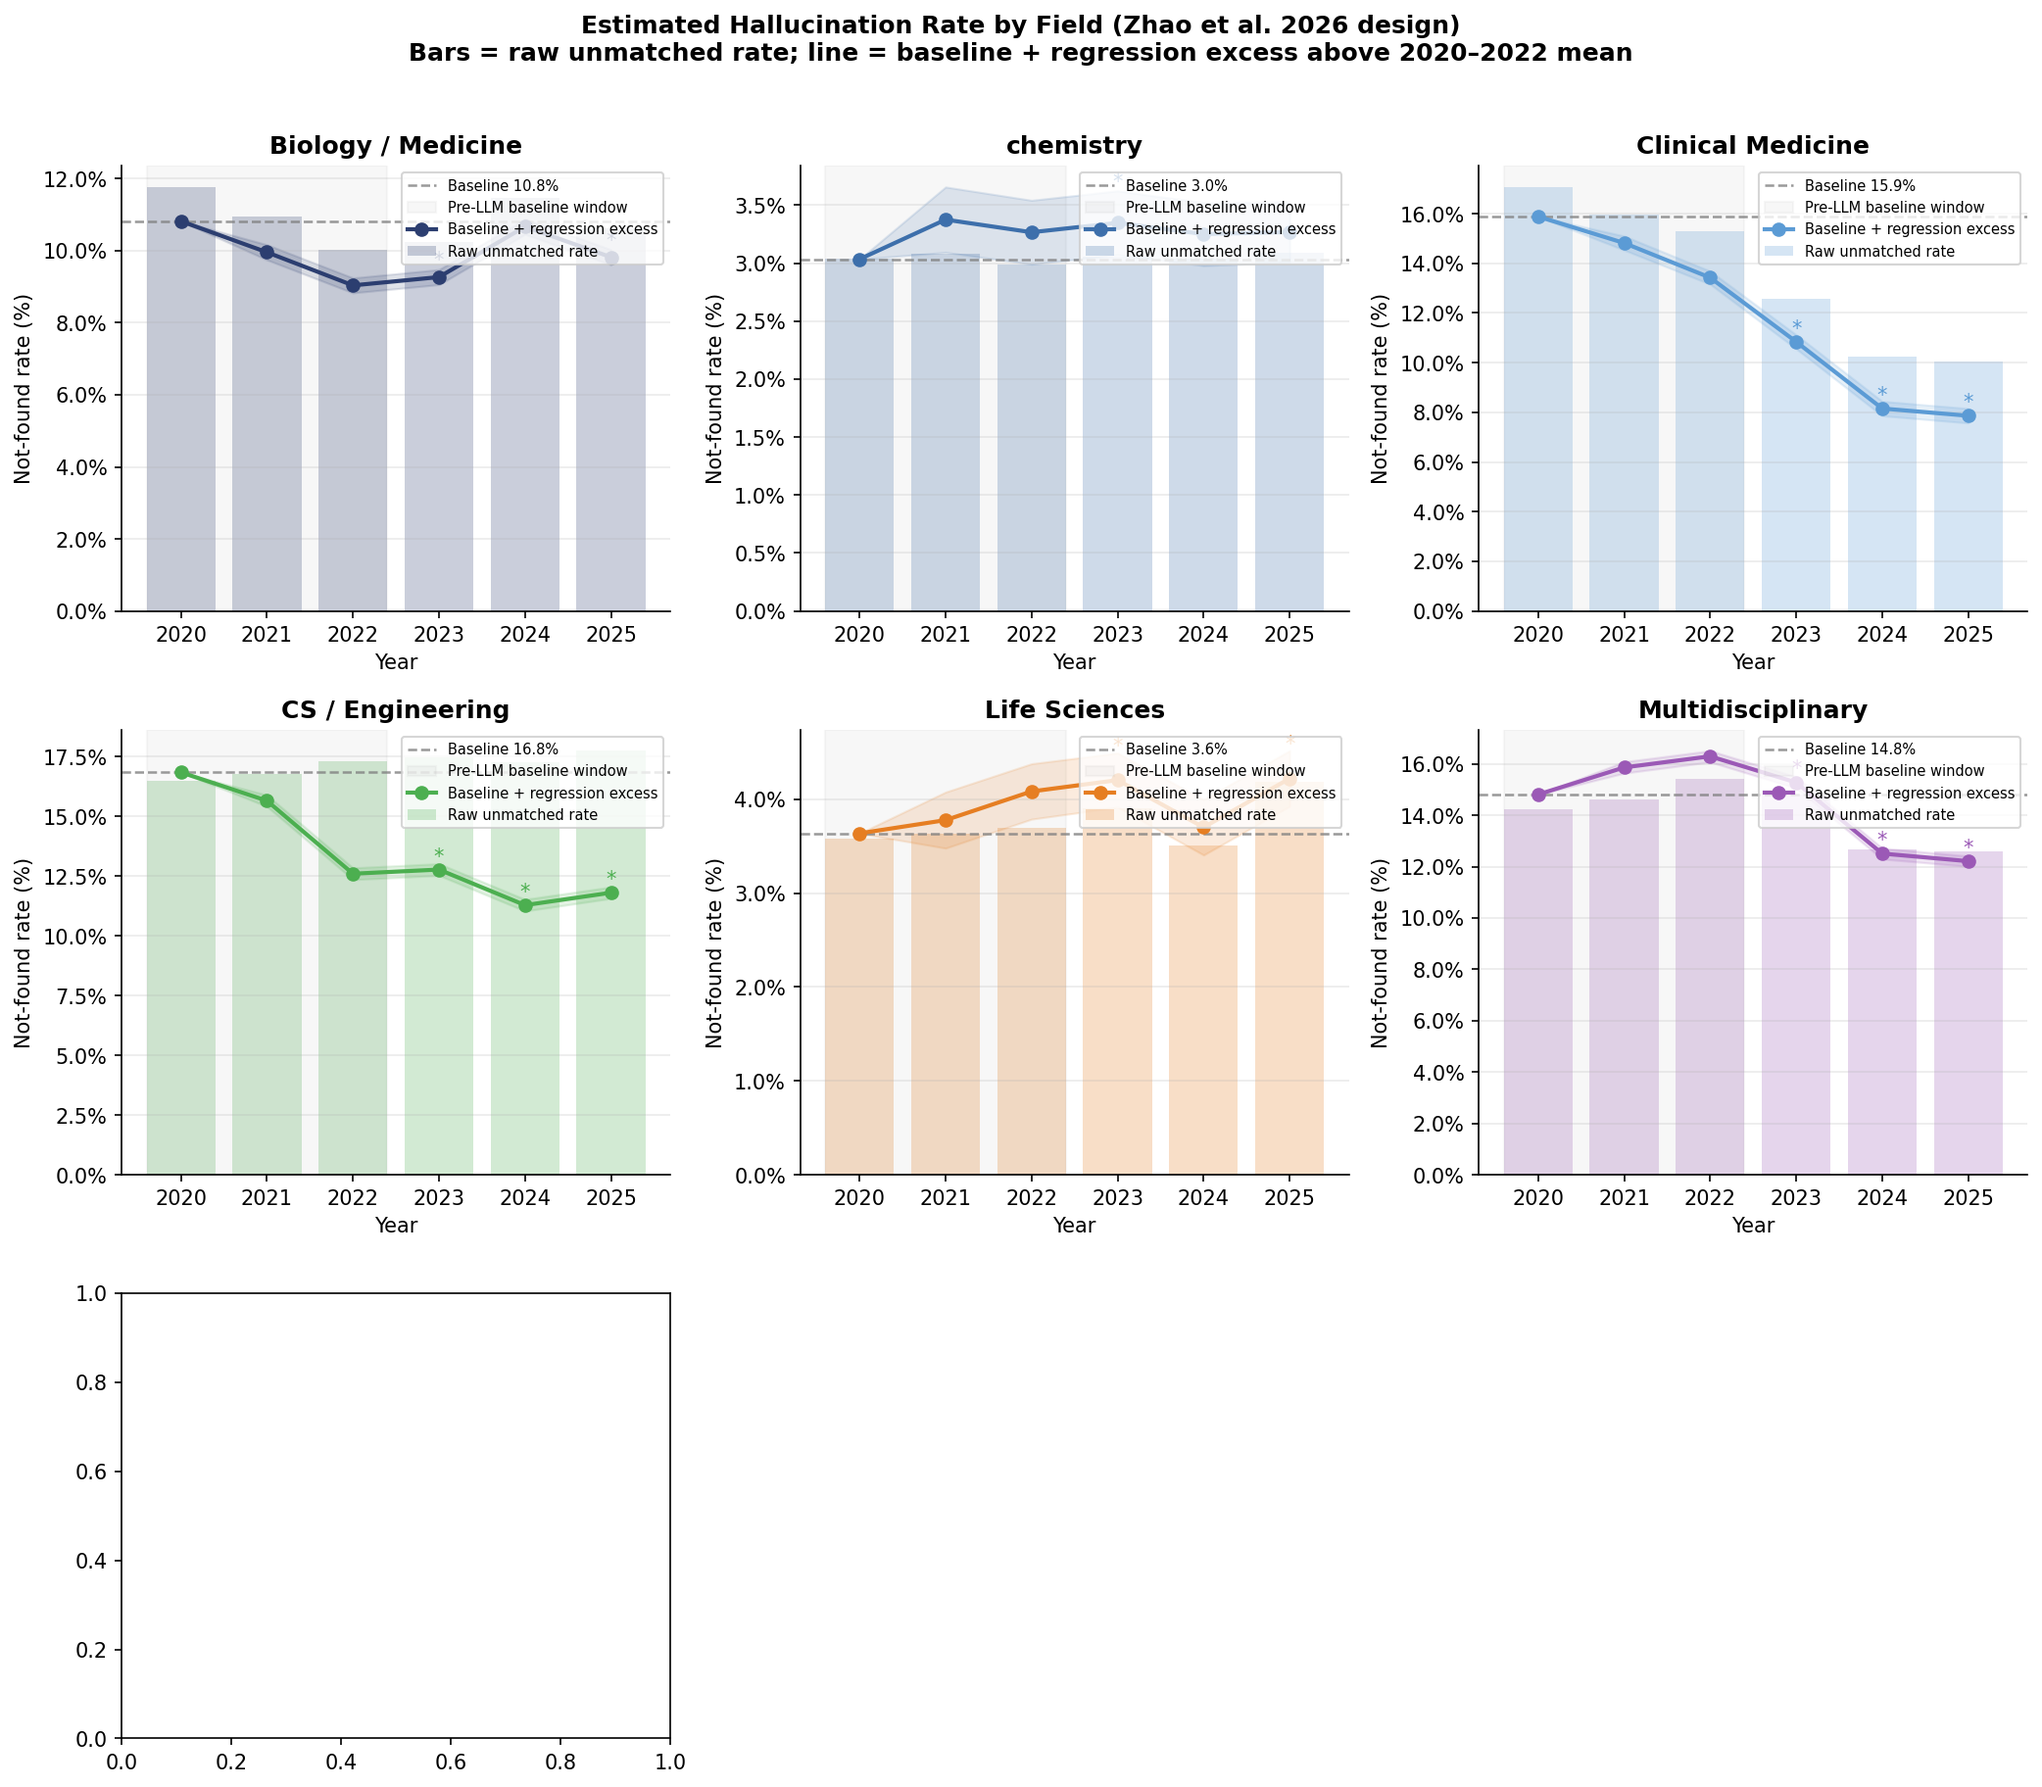
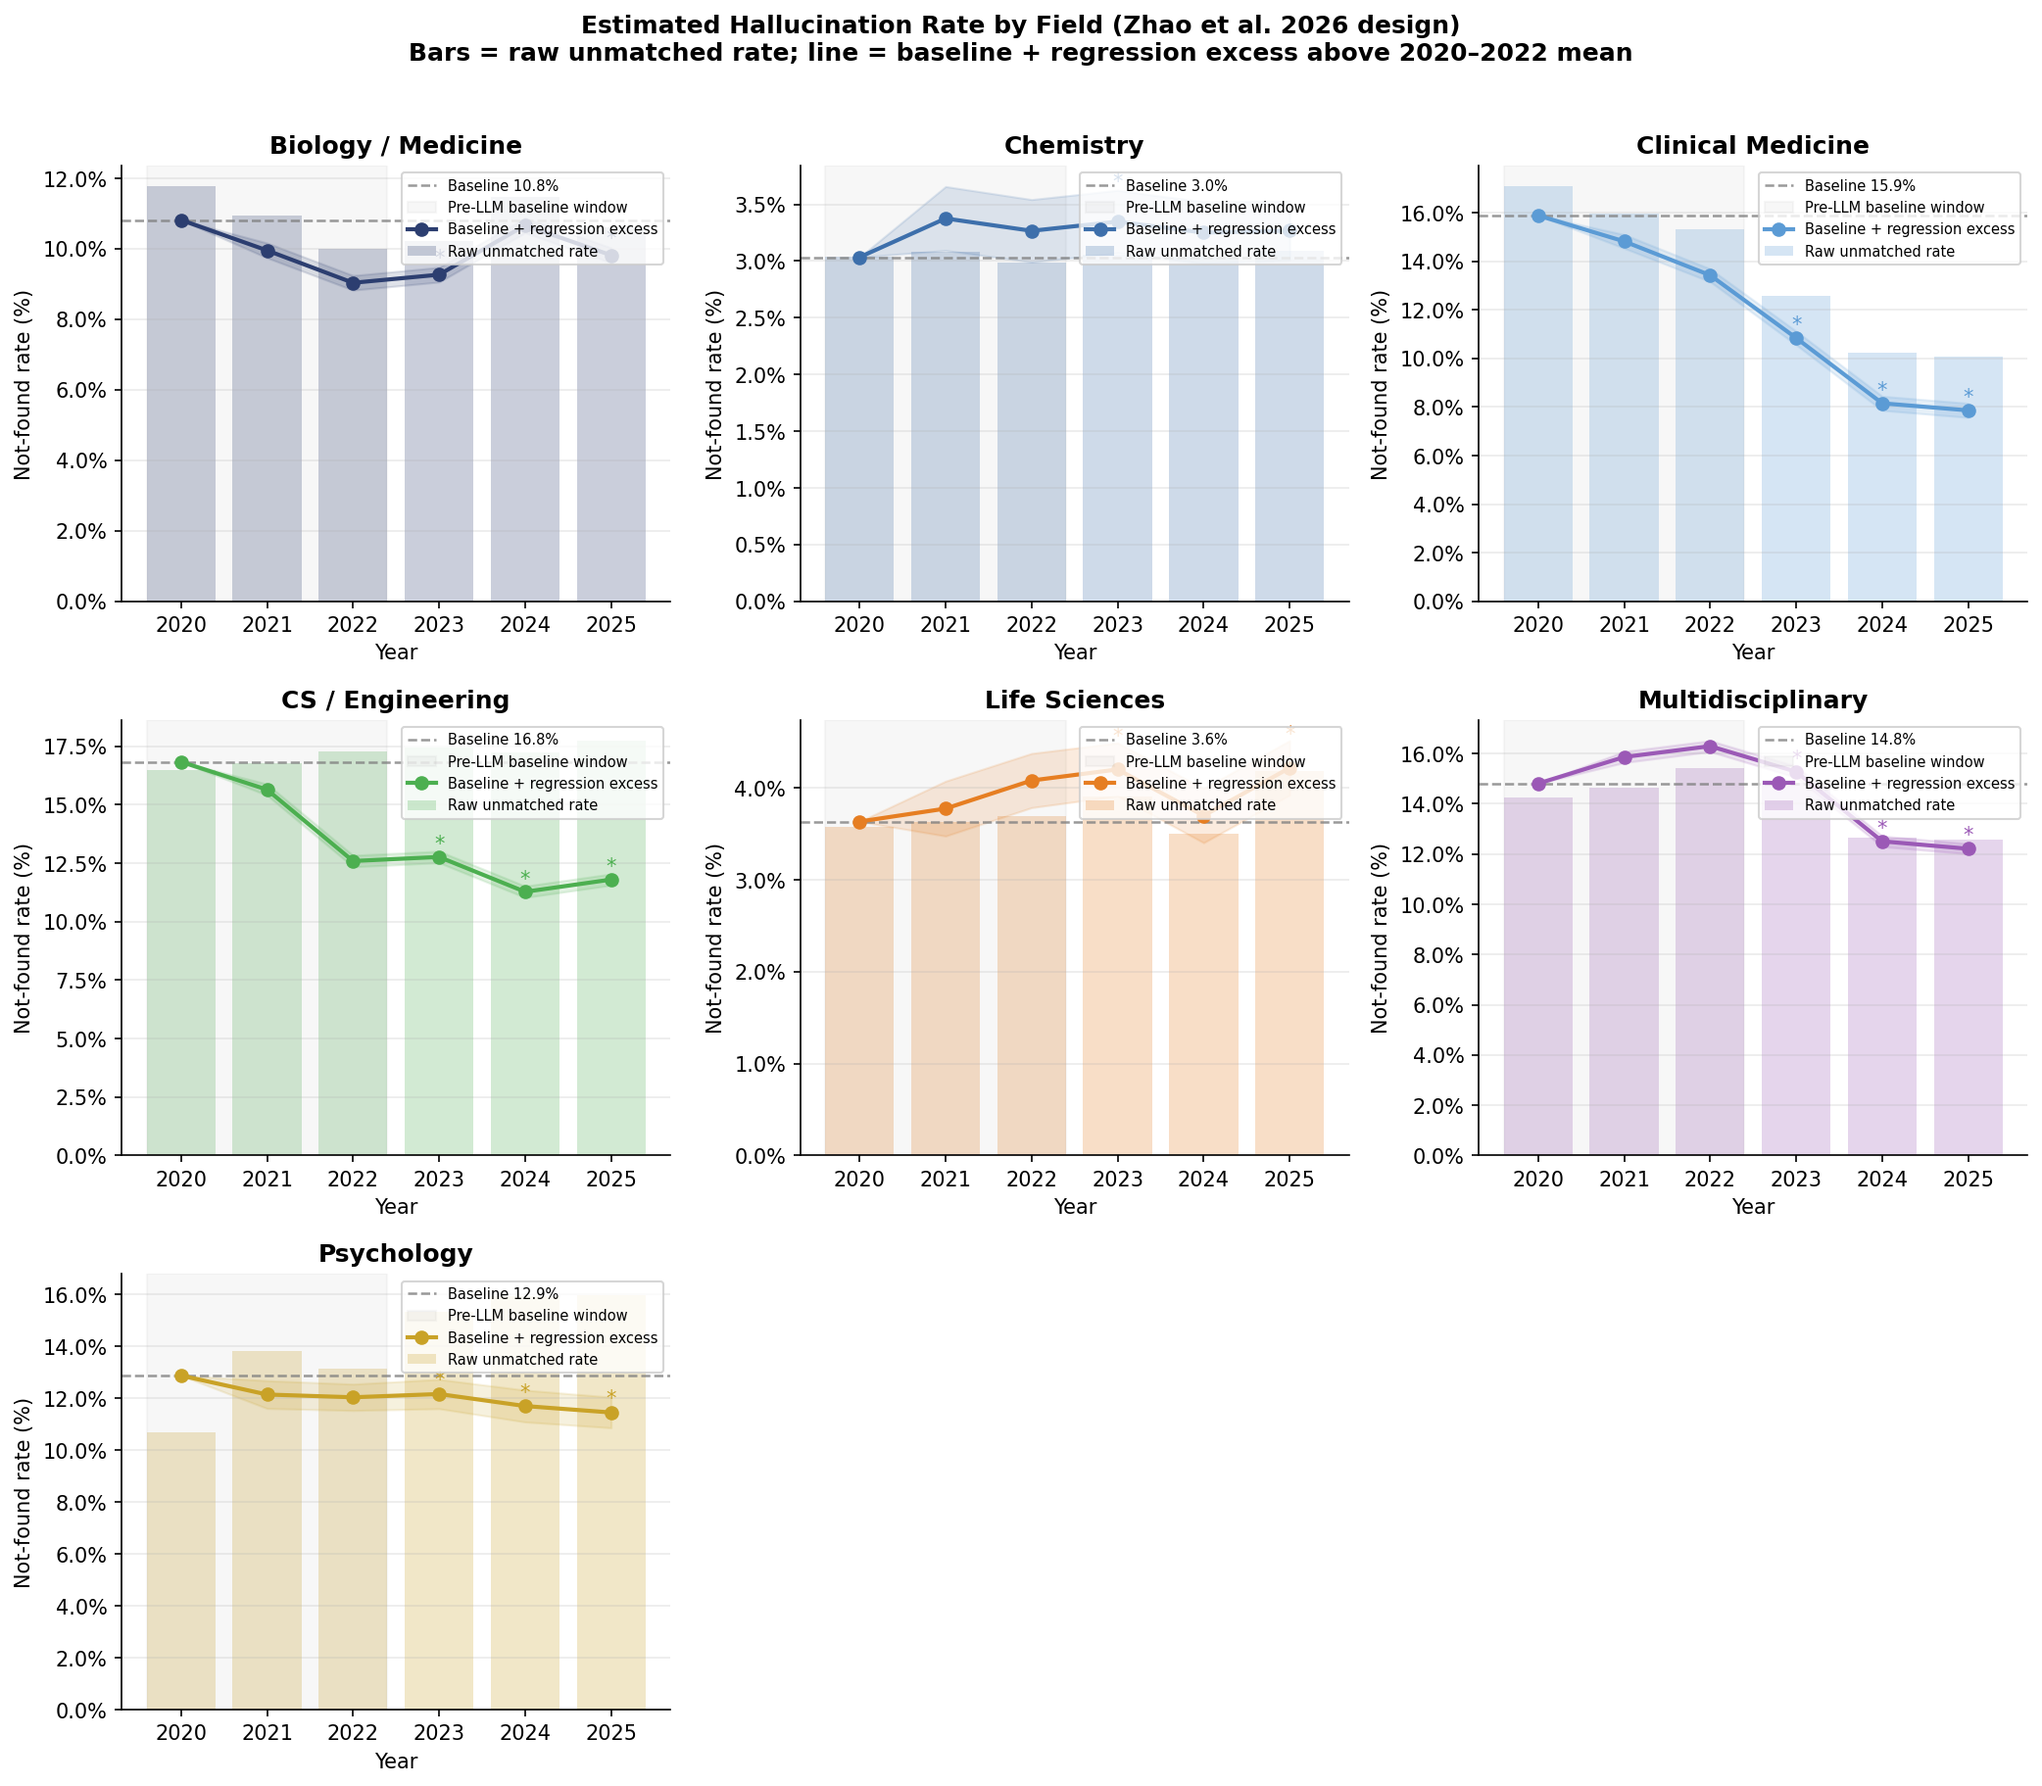
Fix temporal figure (missing Psychology panel) and add by-year not-found graph
- temporal_regression.py: COLORS had only 6 entries for 7 fields, dropping Psychology
  and leaving an empty subplot; extended COLORS and added the Chemistry label.
  Regenerated fig11.
- New fig13: not-found citation rate by year across the 1M corpus, with the
  non-academic-filtered line and the validated candidate-true-not-found band.

diff --git a/scripts/temporal_regression.py b/scripts/temporal_regression.py
@@ -33,9 +33,10 @@ FIELD_LABELS = {
     "life_sciences":     "Life Sciences",
     "multidisciplinary": "Multidisciplinary",
     "psychology":        "Psychology",
+    "chemistry":         "Chemistry",
 }
 
-COLORS = ["#2C3E70", "#3D6FAB", "#5B9BD5", "#4CAF50", "#E67E22", "#9B59B6"]
+COLORS = ["#2C3E70", "#3D6FAB", "#5B9BD5", "#4CAF50", "#E67E22", "#9B59B6", "#C9A227", "#16A085"]
 
 
 def ols_year_effects(papers, years):

diff --git a/citation_verification_report.md b/citation_verification_report.md
@@ -1043,6 +1043,10 @@ trend of Sections 13–14.
 
 *Left: decomposition of the "not found" bucket (validated on 8,000 references); right: the same slices as a share of all 54.7M citations — the candidate true-not-found rate is ~4.8%.*
 
+![Not-found citation rate by year](figures/fig13_notfound_by_year.png)
+
+*Not-found rate by year across the full corpus. The raw rate declines from 17.4% (2020) to 14.2% (2025); the navy line removes non-academic sources; the red band applies the validated 30.7% candidate share, leaving an estimated true-not-found rate of ~4.4-5.3% that itself declines over time.*
+
 ### 15.4 Skipped papers
 
 Separately, of the 58,190 papers skipped for lacking a Crossref reference list, a sample of
